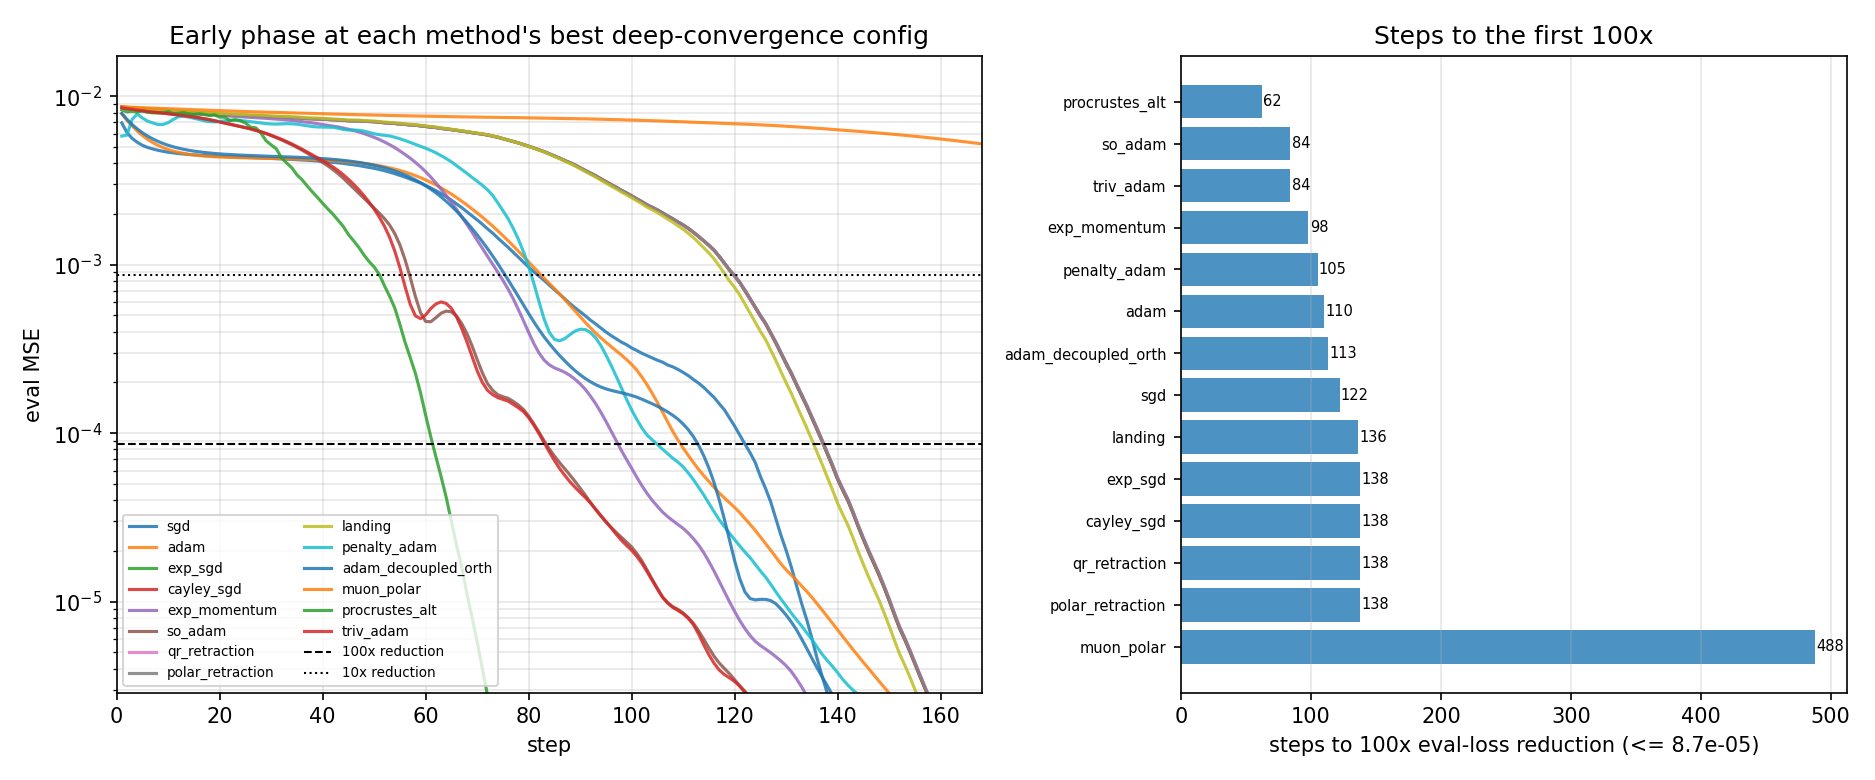
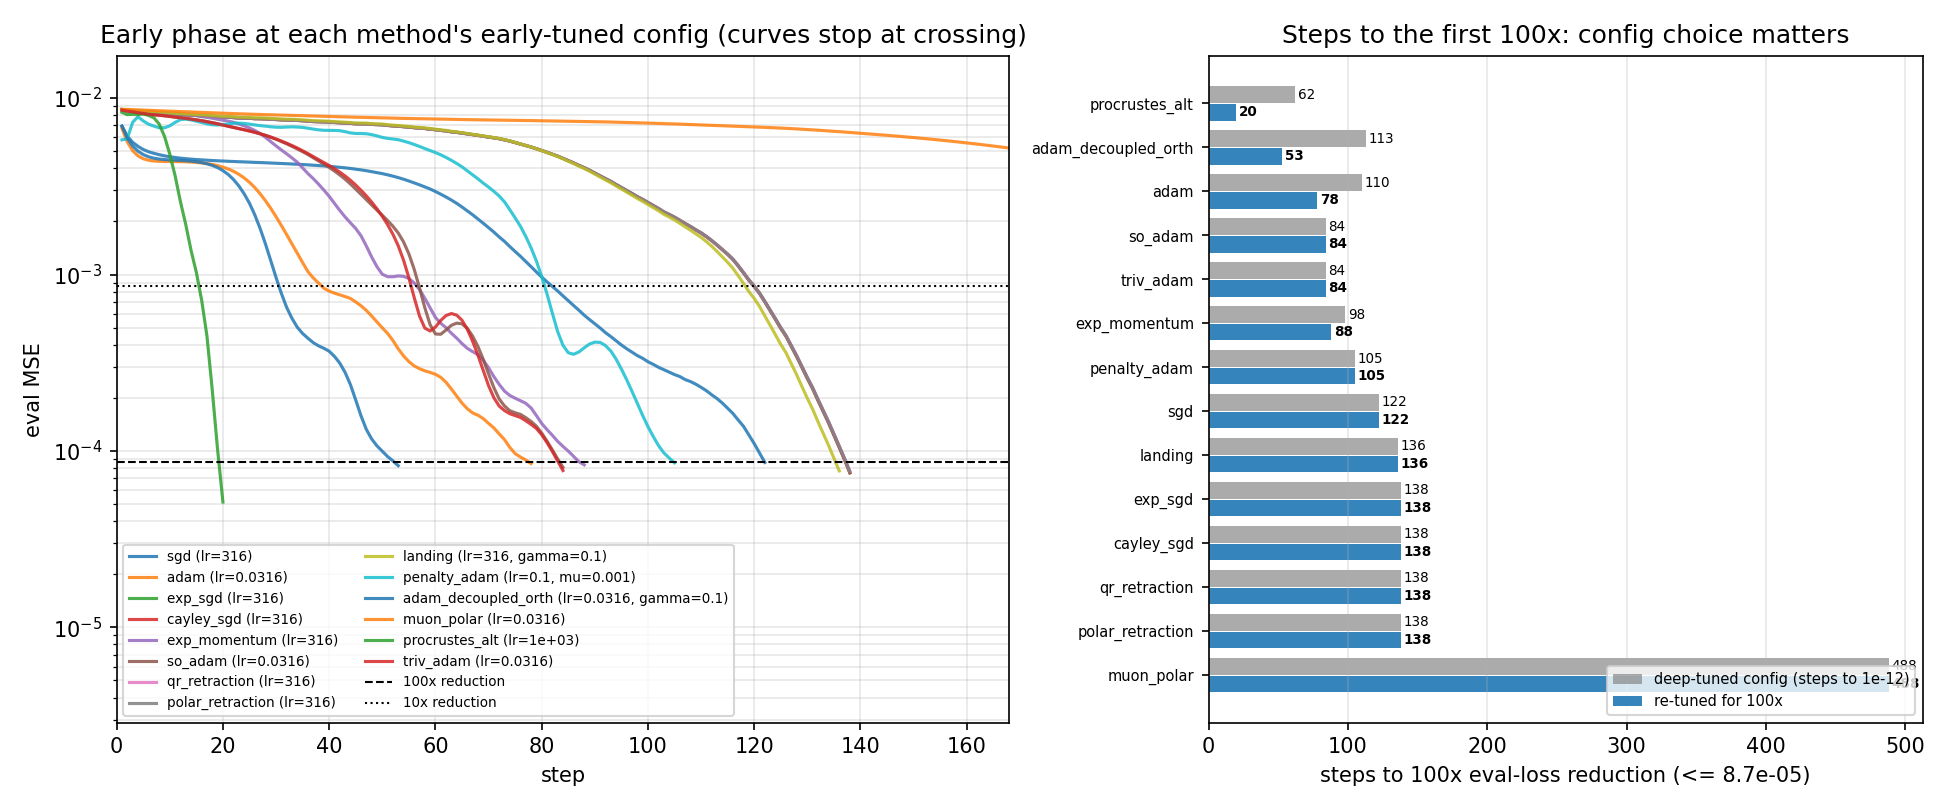
Re-tune learning rates for the initial-convergence comparison (Finding 6)
- Each method's full lr/hyper grid re-swept selecting by steps-to-100x
  (500-step cap, runs stop at the crossing; grid extended upward at edges)
- 10 of 14 methods keep their deep-tuned config — the lr=316 manifold
  family's back-loading is a property of the methods, not a tuning artifact
- Where re-tuning helps it helps a lot: procrustes_alt 62 -> 20 steps
  (lr 1000, useless for the deep race), adam_decoupled_orth 113 -> 53,
  adam 110 -> 78 (transient crossing: rebounds to 2.2e-4)
- train_run gains a stop_at override for cheap early-phase tuning runs

diff --git a/reports/ortho_updates_report.html b/reports/ortho_updates_report.html
@@ -297,46 +297,56 @@ results are in §4. Full per-LR tables: <code>ortho_updates_results.json</code>.
         The headline metric (steps to 1e-12) measures deep convergence into the noiseless optimum. If instead one
         only needs the loss down <b>100x from its initial value</b> (init eval loss 8.66e-3 → threshold 8.66e-5 —
         the regime that matters when the problem isn't noiseless and exactly realizable), the leaderboard reshuffles.
-        Computed from the same stored best-run curves — no new training or tuning:
+        Each method was <b>re-tuned for this metric</b>: its full lr (and pull-coefficient) grid was swept again on the
+        identical problem, init, and data stream, selecting the config by steps-to-100x (tie-break: steps-to-10x), with
+        the grid extended upward when the optimum landed on its edge. The "deep config" column shows the same metric
+        at the config tuned for 1e-12, for comparison:
     </p>
     <table>
-        <thead><tr><th>method</th><th class="num">steps to 10x</th><th class="num">steps to 100x</th>
-            <th class="num">steps to 1e-12 (rank)</th></tr></thead>
+        <thead><tr><th>method</th><th>early-tuned config</th><th class="num">steps to 10x</th>
+            <th class="num">steps to 100x<br>(re-tuned)</th><th class="num">steps to 100x<br>(deep config)</th>
+            <th class="num">steps to 1e-12<br>(deep config)</th></tr></thead>
         <tbody>
-        <tr><td><b>two_block_exact</b> (solver)</td><td class="num">4 alternations</td><td class="num">4 alternations</td><td class="num">8 alt.</td></tr>
-        <tr><td><b>procrustes_alt</b></td><td class="num">52</td><td class="num"><b>62</b></td><td class="num">121 (1st)</td></tr>
-        <tr><td>so_adam</td><td class="num">57</td><td class="num"><b>84</b></td><td class="num">310 (10th)</td></tr>
-        <tr><td>triv_adam</td><td class="num">56</td><td class="num"><b>84</b></td><td class="num">314 (11th)</td></tr>
-        <tr><td>exp_momentum</td><td class="num">75</td><td class="num">98</td><td class="num">290 (8th)</td></tr>
-        <tr><td>penalty_adam</td><td class="num">81</td><td class="num">105</td><td class="num">322 (12th)</td></tr>
-        <tr><td>adam</td><td class="num">83</td><td class="num">110</td><td class="num">338 (13th)</td></tr>
-        <tr><td>adam_decoupled_orth</td><td class="num">76</td><td class="num">113</td><td class="num">290 (8th)</td></tr>
-        <tr><td>sgd</td><td class="num">82</td><td class="num">122</td><td class="num">221 (2nd)</td></tr>
-        <tr><td>landing</td><td class="num">119</td><td class="num">136</td><td class="num">244 (3rd)</td></tr>
-        <tr><td>exp_sgd / cayley / qr / polar</td><td class="num">120</td><td class="num">138</td><td class="num">246 (4th)</td></tr>
-        <tr><td>muon_polar</td><td class="num">422</td><td class="num">488</td><td class="num">never</td></tr>
+        <tr><td><b>two_block_exact</b> (solver)</td><td>B=64, no lr</td><td class="num">4 alt.</td><td class="num">4 alt.</td><td class="num">4 alt.</td><td class="num">8 alt.</td></tr>
+        <tr><td><b>procrustes_alt</b></td><td>lr 1000</td><td class="num">16</td><td class="num"><b>20</b></td><td class="num">62</td><td class="num">121</td></tr>
+        <tr><td><b>adam_decoupled_orth</b></td><td>lr 0.0316, γ 0.1</td><td class="num">31</td><td class="num"><b>53</b></td><td class="num">113</td><td class="num">290</td></tr>
+        <tr><td>adam</td><td>lr 0.0316</td><td class="num">39</td><td class="num">78</td><td class="num">110</td><td class="num">338</td></tr>
+        <tr><td>so_adam</td><td>lr 0.0316 (same)</td><td class="num">57</td><td class="num">84</td><td class="num">84</td><td class="num">310</td></tr>
+        <tr><td>triv_adam</td><td>lr 0.0316 (same)</td><td class="num">56</td><td class="num">84</td><td class="num">84</td><td class="num">314</td></tr>
+        <tr><td>exp_momentum</td><td>lr 316</td><td class="num">57</td><td class="num">88</td><td class="num">98</td><td class="num">290</td></tr>
+        <tr><td>penalty_adam</td><td>lr 0.1, μ 1e-3 (same)</td><td class="num">81</td><td class="num">105</td><td class="num">105</td><td class="num">322</td></tr>
+        <tr><td>sgd</td><td>lr 316 (same)</td><td class="num">82</td><td class="num">122</td><td class="num">122</td><td class="num">221</td></tr>
+        <tr><td>landing</td><td>lr 316, γ 0.1 (same)</td><td class="num">119</td><td class="num">136</td><td class="num">136</td><td class="num">244</td></tr>
+        <tr><td>exp_sgd / cayley / qr / polar</td><td>lr 316 (same)</td><td class="num">120</td><td class="num">138</td><td class="num">138</td><td class="num">246</td></tr>
+        <tr><td>muon_polar</td><td>lr 0.0316 (same)</td><td class="num">422</td><td class="num">488</td><td class="num">488</td><td class="num">never</td></tr>
         </tbody>
     </table>
     <p>
-        The deep-convergence ranking roughly <b>inverts</b> in the early phase. The so(n)-Adam-style optimizers
-        (so_adam, triv_adam — 10th/11th at 1e-12) are the fastest gradient methods to the first 100x (84 steps),
-        and plain Adam is competitive (110) — adaptive, rotation-angle-sized steps front-load their progress.
-        The lr=316 manifold family (exp_sgd, Cayley, retractions, landing) wins the deep race but
-        <i>back-loads</i> it: those runs are still at ~0.3x of the init loss at step 100, cross 10x only around
-        step 119–120, and then drop extremely steeply — the large constant lr only bites once the iterate reaches
-        the basin where huge steps are stable. (Plain SGD at the same lr is the exception: its early phase matches
-        Adam's — 10x at step 82 — though its 100x crossing still trails slightly at 122.)
-        muon_polar is last here too, crossing 100x at step 488: its constant-norm steps make early speed scale
-        with lr but its floor scale with lr² — at the next grid point up (lr 0.1, floor 4.6e-4) it could not cross
-        the 100x threshold at all, so its deep-tuned lr 0.0316 is already near its early-phase optimum.
-        procrustes_alt leads both races: the closed-form W<sub>v</sub> block removes a third of the problem
-        exactly from step 1.
+        Two things stand out. First, <b>for 10 of the 14 methods re-tuning changes nothing</b> — their deep-convergence
+        config is already their early-phase optimum. In particular the whole lr=316 manifold family (exp_sgd, Cayley,
+        retractions, landing) and plain SGD keep the same lr, so their <i>back-loaded</i> profile is a property of the
+        methods, not an artifact of deep tuning: no config in their grids crosses 100x sooner. The manifold members
+        are still at ~0.3x of the init loss at step 100, cross 10x only around step 119–120, then drop extremely
+        steeply — the large constant lr only bites once the iterate reaches the basin where huge steps are stable.
+        muon_polar also keeps its config (488): its constant-norm steps make early speed scale with lr but its floor
+        scale with lr², and at the next grid point up (lr 0.1, floor 4.6e-4) it cannot cross the threshold at all.
+    </p>
+    <p>
+        Second, where re-tuning does help, it helps a lot — and the deep-convergence ranking <b>inverts</b>.
+        procrustes_alt at lr 1000 crosses 100x in <b>20 steps</b> (3x faster than its deep config; lr ~3160 was
+        tested and is worse, so this is an interior optimum) — at a config that is useless for the deep race
+        (it plateaus at 1.5e-4). adam_decoupled_orth more than halves its crossing (113 → <b>53</b> at lr 0.0316,
+        γ 0.1 — a config that still reaches 1e-12, in 354 steps). Plain Adam improves to 78 at lr 0.0316, but that
+        crossing is <i>transient</i>: the same run later rebounds above the threshold and plateaus at 2.2e-4 — Adam at
+        this lr passes through the 100x band rather than settling below it. The adaptive methods front-load progress;
+        the lr=316 family back-loads it; and the closed-form W<sub>v</sub> block again leads both races, by removing
+        a third of the problem exactly from step 1.
     </p>
     <p class="muted">
-        Caveat: every curve is the config tuned for fastest deep convergence (steps to 1e-12), reused as-is —
-        per the analysis constraint, nothing was retuned for the early phase. A method's early-phase optimum may
-        sit at a different lr, and early-phase timing at non-best lrs is not stored (only best-run curves were
-        saved), so this table is a reshuffle under deep-tuned configs, not a tuned early-phase benchmark.
+        Protocol: tuning runs are capped at 500 steps and stop at the 100x crossing (no deep convergence is run),
+        on the same teacher, det-aligned init, eval set, and data stream as the main sweep; single seed (42).
+        The deep-config column is read off the stored best-run curves of the main sweep. Selecting by a single
+        early-crossing on one seed is noisier than the deep metric — treat ~10-step differences as ties.
         Numbers: <code>ortho_initial_convergence.py</code> → <code>ortho_initial_convergence.json</code>.
     </p>
 </div>
@@ -362,7 +372,7 @@ random seeds is 1/2 rather than the family's 3/4.</p>
 <pre><code>uv run ortho_updates.py --verify          # 8 pre-flight math checks (descent identity, negative control, ...)
 uv run ortho_updates.py --smoke           # 50-step smoke test of all methods
 uv run ortho_updates.py                   # full sweep (~25 min CPU): both arms, 3 seeds, plots + JSON
-uv run ortho_initial_convergence.py       # Finding 6 post-processing (seconds; no training)</code></pre>
+uv run ortho_initial_convergence.py       # Finding 6: early-phase re-tuning sweep (~6 min; runs stop at the 100x crossing)</code></pre>
 <p class="muted">
     Artifacts: <code>ortho_loss_curves.png</code>, <code>ortho_lr_robustness.png</code>, <code>ortho_drift.png</code>,
     <code>ortho_det_obstruction.png</code>, <code>ortho_updates_results.json</code> (per-LR tables and full curves),

diff --git a/ortho_initial_convergence.py b/ortho_initial_convergence.py
@@ -7,26 +7,31 @@
 # ///
 """Initial-convergence analysis: steps to the first 10x / 100x eval-loss reduction.
 
-Pure post-processing of existing results — no training, no tuning. Reads the
-best-run curves stored in reports/ortho_updates_results.json (and the two-block
-solver curve in reports/two_block_results.json); the only computation is one
-forward pass to record the shared init eval loss. Caveat carried into the
-report: each method's curve is at the config tuned for fastest deep convergence
-(steps to 1e-12), not retuned for the early phase.
+Two parts:
+1. Post-processing of the deep-convergence sweep: steps-to-10x/100x read off the
+   best-run curves stored in reports/ortho_updates_results.json (configs tuned
+   for steps-to-1e-12).
+2. Early-phase RE-TUNING: each method's full lr (and hyper) grid is swept again
+   on the same aligned-arm problem with the same init and data stream, but the
+   best config is selected by steps-to-100x. Runs are capped at 500 steps and
+   stop as soon as they cross the 100x threshold, so the sweep is cheap
+   (~minutes, no deep convergence is run).
 
 Outputs: reports/ortho_initial_convergence.png, ortho_initial_convergence.json.
 """
 
 import json
+import time
 import torch
 import numpy as np
 import matplotlib
 matplotlib.use("Agg")
 import matplotlib.pyplot as plt
 
-from ortho_updates import make_problem, mse
+from ortho_updates import (DIM, METHODS, make_problem, mse, train_run)
 from linattention_solve import LinearSelfAttention
-from ortho_updates import DIM
+
+TUNE_STEPS = 500   # cap for the early-phase tuning runs
 
 
 def steps_to(curve, thresh):
@@ -34,6 +39,55 @@ def steps_to(curve, thresh):
         if v <= thresh:
             return i
     return None
+
+
+def hyper_label(hyper):
+    return "".join(f", {k}={v:g}" for k, v in hyper.items())
+
+
+def tune_early(teacher, inits, eval_x, eval_y, thr10, thr100):
+    """Re-tune every method for steps-to-100x over its full config grid.
+    If the optimum lands on the top of the lr grid, extend upward by
+    half-decade steps (the deep sweep never needed that, the early phase might)."""
+    tuned = {}
+    for name in METHODS:
+        _, lrs, extra = METHODS[name]
+        best = None
+        t0 = time.time()
+
+        def run_cfg(lr, hyper):
+            r = train_run(name, float(lr), teacher, inits["aligned"], eval_x, eval_y,
+                          num_steps=TUNE_STEPS, hyper=hyper, stop_at=thr100)
+            s100 = steps_to(r["eval_losses"], thr100)
+            s10 = steps_to(r["eval_losses"], thr10)
+            return {"lr": float(lr), "hyper": hyper or {},
+                    "steps_to_100x": s100, "steps_to_10x": s10,
+                    "curve": r["eval_losses"],
+                    "_key": (s100 is None, s100 if s100 is not None else 10 ** 9,
+                             s10 if s10 is not None else 10 ** 9)}
+
+        for hyper in (extra or [None]):
+            for lr in lrs:
+                cand = run_cfg(lr, hyper)
+                if best is None or cand["_key"] < best["_key"]:
+                    best = cand
+        max_lr, extensions = float(max(lrs)), 0
+        while best["lr"] == max_lr and extensions < 3:
+            max_lr *= 10 ** 0.5
+            extensions += 1
+            cand = run_cfg(max_lr, best["hyper"] or None)
+            if cand["_key"] < best["_key"]:
+                best = cand
+            else:
+                break
+        best.pop("_key")
+        best["grid_extended"] = extensions > 0
+        tuned[name] = best
+        print(f"{name:20s} early-tuned lr {best['lr']:.3g}{hyper_label(best['hyper'])} "
+              f"| 10x: {best['steps_to_10x']!s:>5} | 100x: {best['steps_to_100x']!s:>5} "
+              f"{'(grid extended) ' if best['grid_extended'] else ''}| {time.time()-t0:.0f}s",
+              flush=True)
+    return tuned
 
 
 def main():
@@ -49,6 +103,7 @@ def main():
     thr10, thr100 = init_loss / 10, init_loss / 100
     print(f"aligned init eval loss {init_loss:.4e} | 10x thr {thr10:.3e} | 100x thr {thr100:.3e}")
 
+    # ---- part 1: read early-phase crossings off the deep-tuned best curves
     methods = [k for k in results if isinstance(results[k], dict) and "aligned" in results[k]]
     table = {}
     for name in methods:
@@ -60,8 +115,11 @@ def main():
             "steps_to_100x": steps_to(curve, thr100),
             "steps_to_1e-12": b["steps_to"]["1e-12"],
         }
-        print(f"{name:20s} 10x: {table[name]['steps_to_10x']!s:>5} | "
+        print(f"{name:20s} deep-tuned   10x: {table[name]['steps_to_10x']!s:>5} | "
               f"100x: {table[name]['steps_to_100x']!s:>5} | 1e-12: {b['steps_to']['1e-12']}")
+
+    # ---- part 2: re-tune for steps-to-100x
+    tuned = tune_early(teacher, inits, eval_x, eval_y, thr10, thr100)
 
     # two-block solver: alternations to the same factors from its own init
     tb_curve, tb_init = tb["main_run"]["after_a"], tb["main_run"]["init_loss"]
@@ -70,43 +128,54 @@ def main():
     print(f"two_block_exact      10x: alt {tb_entry['alt_to_10x']} | 100x: alt {tb_entry['alt_to_100x']}")
 
     out = {"init_loss_aligned": init_loss, "thr_10x": thr10, "thr_100x": thr100,
-           "methods": table, "two_block_exact": tb_entry}
+           "tune_steps_cap": TUNE_STEPS,
+           "methods": table,
+           "early_tuned": {n: {k: v for k, v in t.items() if k != "curve"}
+                           for n, t in tuned.items()},
+           "two_block_exact": tb_entry}
     with open("reports/ortho_initial_convergence.json", "w") as f:
         json.dump(out, f, indent=1)
 
-    # ---- plot: early-phase curves + steps-to-100x bars
-    fig, (ax1, ax2) = plt.subplots(1, 2, figsize=(12.5, 5.2),
-                                   gridspec_kw={"width_ratios": [1.3, 1]})
-    # clamp the curve panel to the second-slowest method so one straggler
-    # (muon_polar, 488 steps) doesn't squeeze the early phase; the bar panel
-    # still carries the full numbers
-    reached = sorted(t["steps_to_100x"] for t in table.values() if t["steps_to_100x"])
+    # ---- plot: early-tuned curves + deep-vs-early bars
+    fig, (ax1, ax2) = plt.subplots(1, 2, figsize=(13, 5.4),
+                                   gridspec_kw={"width_ratios": [1.25, 1]})
+    reached = sorted(t["steps_to_100x"] for t in tuned.values() if t["steps_to_100x"])
     xmax = 30 + (reached[-2] if len(reached) >= 2 else reached[-1])
     for name in methods:
-        curve = results[name]["aligned"]["best_curve"][:xmax]
-        ax1.semilogy(range(1, len(curve) + 1), curve, label=name, alpha=0.85)
+        t = tuned[name]
+        curve = t["curve"][:xmax]
+        ax1.semilogy(range(1, len(curve) + 1), curve,
+                     label=f"{name} (lr={t['lr']:.3g}{hyper_label(t['hyper'])})", alpha=0.85)
     ax1.axhline(thr100, color="k", ls="--", lw=1, label="100x reduction")
     ax1.axhline(thr10, color="k", ls=":", lw=1, label="10x reduction")
     ax1.set_xlim(0, xmax)
     ax1.set_ylim(thr100 / 30, init_loss * 2)
     ax1.set_xlabel("step")
     ax1.set_ylabel("eval MSE")
-    ax1.set_title("Early phase at each method's best deep-convergence config")
+    ax1.set_title("Early phase at each method's early-tuned config (curves stop at crossing)")
     ax1.legend(fontsize=6.5, ncol=2)
     ax1.grid(True, which="both", alpha=0.3)
 
-    order = sorted(table, key=lambda n: (table[n]["steps_to_100x"] is None,
-                                         table[n]["steps_to_100x"] or 0))
+    order = sorted(methods, key=lambda n: (tuned[n]["steps_to_100x"] is None,
+                                           tuned[n]["steps_to_100x"] or 0))
     names = list(reversed(order))
-    vals = [table[n]["steps_to_100x"] or 0 for n in names]
-    bars = ax2.barh(names, vals, color="tab:blue", alpha=0.8)
-    for bar, n in zip(bars, names):
-        v = table[n]["steps_to_100x"]
-        ax2.text(bar.get_width() + 1, bar.get_y() + bar.get_height() / 2,
-                 str(v) if v else "never", va="center", fontsize=7)
+    y = np.arange(len(names))
+    deep_vals = [table[n]["steps_to_100x"] or 0 for n in names]
+    early_vals = [tuned[n]["steps_to_100x"] or 0 for n in names]
+    ax2.barh(y + 0.2, deep_vals, height=0.38, color="tab:gray", alpha=0.65,
+             label="deep-tuned config (steps to 1e-12)")
+    ax2.barh(y - 0.2, early_vals, height=0.38, color="tab:blue", alpha=0.9,
+             label="re-tuned for 100x")
+    for yi, n in zip(y, names):
+        d, e = table[n]["steps_to_100x"], tuned[n]["steps_to_100x"]
+        ax2.text((d or 0) + 2, yi + 0.2, str(d) if d else "never", va="center", fontsize=6.5)
+        ax2.text((e or 0) + 2, yi - 0.2, str(e) if e else "never", va="center", fontsize=6.5,
+                 fontweight="bold")
+    ax2.set_yticks(y)
+    ax2.set_yticklabels(names, fontsize=7)
     ax2.set_xlabel(f"steps to 100x eval-loss reduction (<= {thr100:.1e})")
-    ax2.set_title("Steps to the first 100x")
-    ax2.tick_params(axis="y", labelsize=7)
+    ax2.set_title("Steps to the first 100x: config choice matters")
+    ax2.legend(fontsize=7, loc="lower right")
     ax2.grid(True, axis="x", alpha=0.3)
     plt.tight_layout()
     plt.savefig("reports/ortho_initial_convergence.png", dpi=150)
@@ -114,4 +183,6 @@ def main():
 
 
 if __name__ == "__main__":
+    t0 = time.time()
     main()
+    print(f"Total time: {time.time() - t0:.1f}s")

diff --git a/ortho_updates.py b/ortho_updates.py
@@ -529,8 +529,10 @@ def identifiable_distances(student, teacher):
 
 
 def train_run(method_name, lr, teacher, init_state, eval_x, eval_y,
-              num_steps=NUM_STEPS, data_seed=1234, hyper=None):
-    """One training run. Every (method, lr) sees the same init and data stream."""
+              num_steps=NUM_STEPS, data_seed=1234, hyper=None, stop_at=None):
+    """One training run. Every (method, lr) sees the same init and data stream.
+    stop_at overrides the early-stop loss (default CONVERGED_MSE) — used by the
+    early-phase tuner, which only needs the run up to its target threshold."""
     student = LinearSelfAttention(DIM)
     student.load_state_dict(copy.deepcopy(init_state))
     factory, _, _ = METHODS[method_name]
@@ -560,7 +562,7 @@ def train_run(method_name, lr, teacher, init_state, eval_x, eval_y,
         for t in THRESHOLDS:
             if steps_to[t] is None and el <= t:
                 steps_to[t] = step
-        if el <= CONVERGED_MSE:
+        if el <= (stop_at if stop_at is not None else CONVERGED_MSE):
             break
     return {
         "method": method_name, "lr": lr, "hyper": hyper or {}, "status": status,